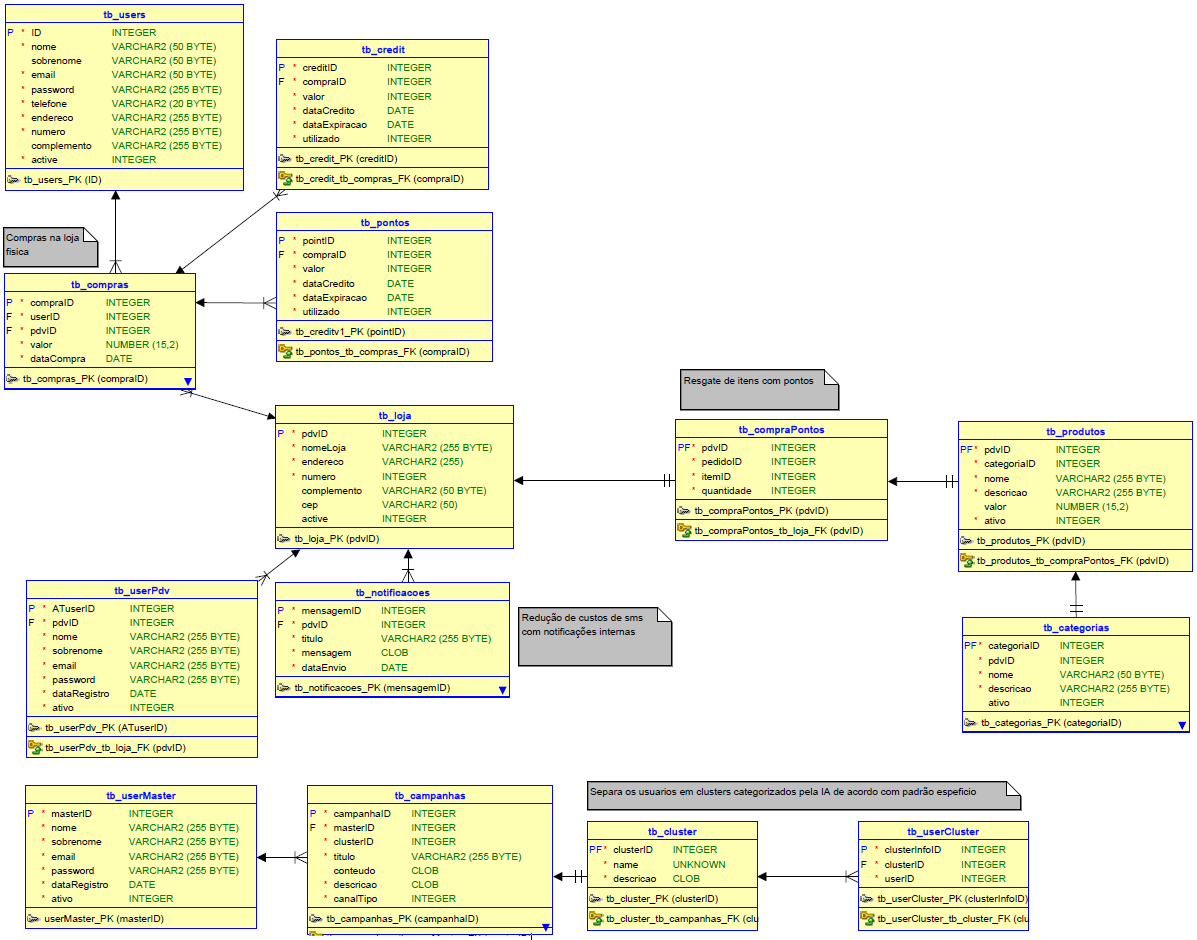
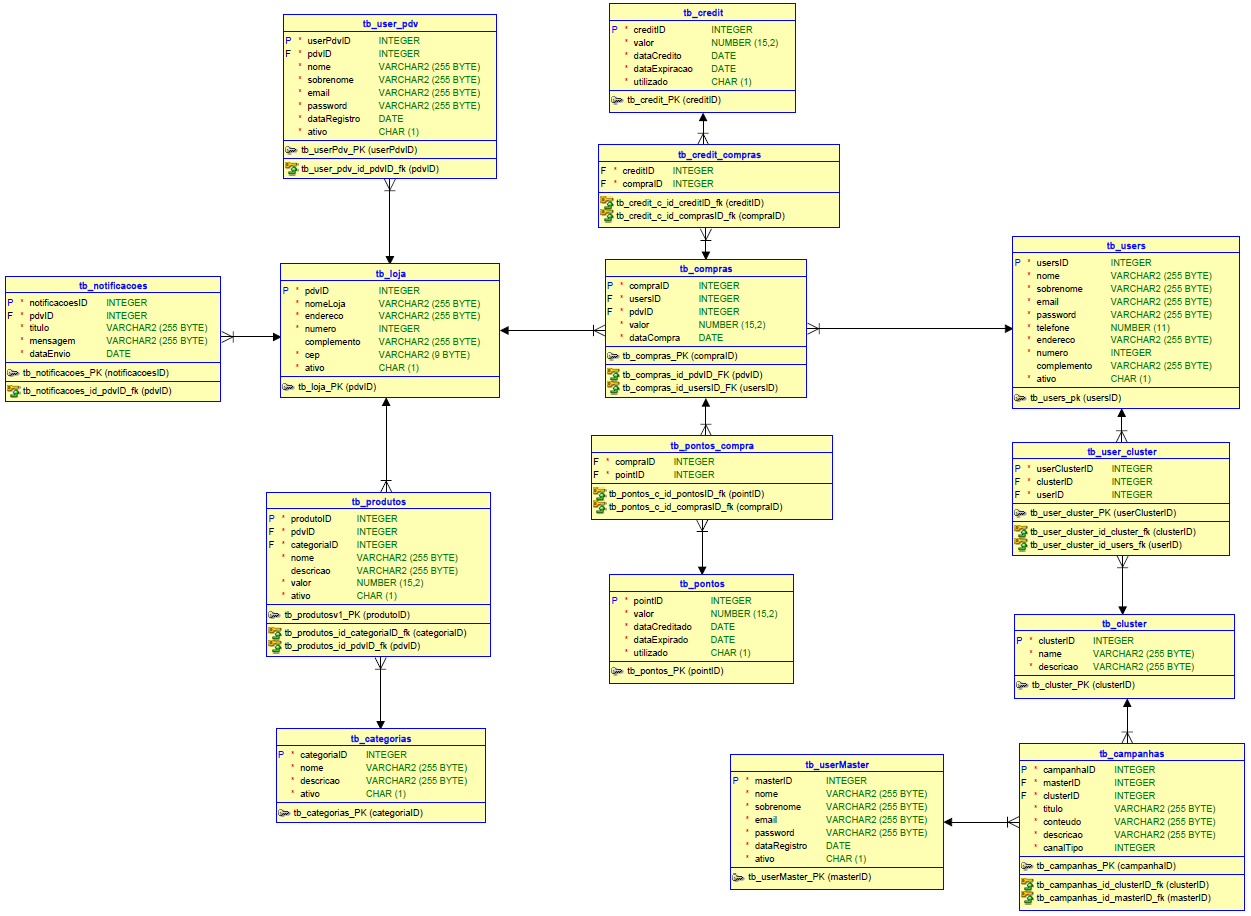
Updated UML and DB Relations

diff --git a/README.md b/README.md
@@ -214,7 +214,7 @@ Aqui estão exemplos de como interagir com cada tipo de recurso:
 
 ## Imagem dos diagramas de classe
 UML:\
-![UML](./images/TPC-Challenge24v1.png)
+![UML](./images/TPC-Challenge24v2.png)
 
 Banco de Dados:\
 ![Banco de Dados](./images/DB_TPC.png)
